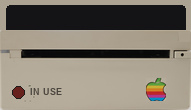
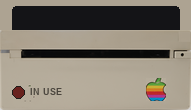
fix(IIgs ui): widen the 3.5" band's side margins
The art is 191x110 shown at 85x55, so a source pixel is worth 0.445 CSS px
horizontally but 0.5 vertically: the 6 px inset that looked even in the source
rendered as a ~2.7 px gap and the band's ends sat on the panel border. Double the
side inset so the beige margin reads on both axes.

Changed region(s): [[0.0262, 0.0273, 0.9948, 0.2727]]

diff --git a/AGENTS.md b/AGENTS.md
@@ -517,6 +517,10 @@ platform is ROM 03).
   hard card) and its footprint matches where `.disk-label` paints: a full-bleed
   black strip fuses with the panel's 1px `.disk-image` border and the whole top
   reads as one heavy frame, and the label plate then crosses the band's edge.
+  The inset must be measured in **CSS pixels**: the 191x110 art is shown at 85x55,
+  so one source pixel is worth 0.445 CSS px across but 0.5 down, and equal
+  insets render as a visibly thinner gap left and right (6 source px read as
+  ~2.7 and stick to the border). Use ~2x for the sides.
 - `iigsInitInterrupts()` runs on **cold boot only**. Ctrl-Reset must preserve low
   memory and `$03F2-$03F4`.
 - IIgs speed labels in the dropdown and in `linkbuilder` / MCP settings must match
